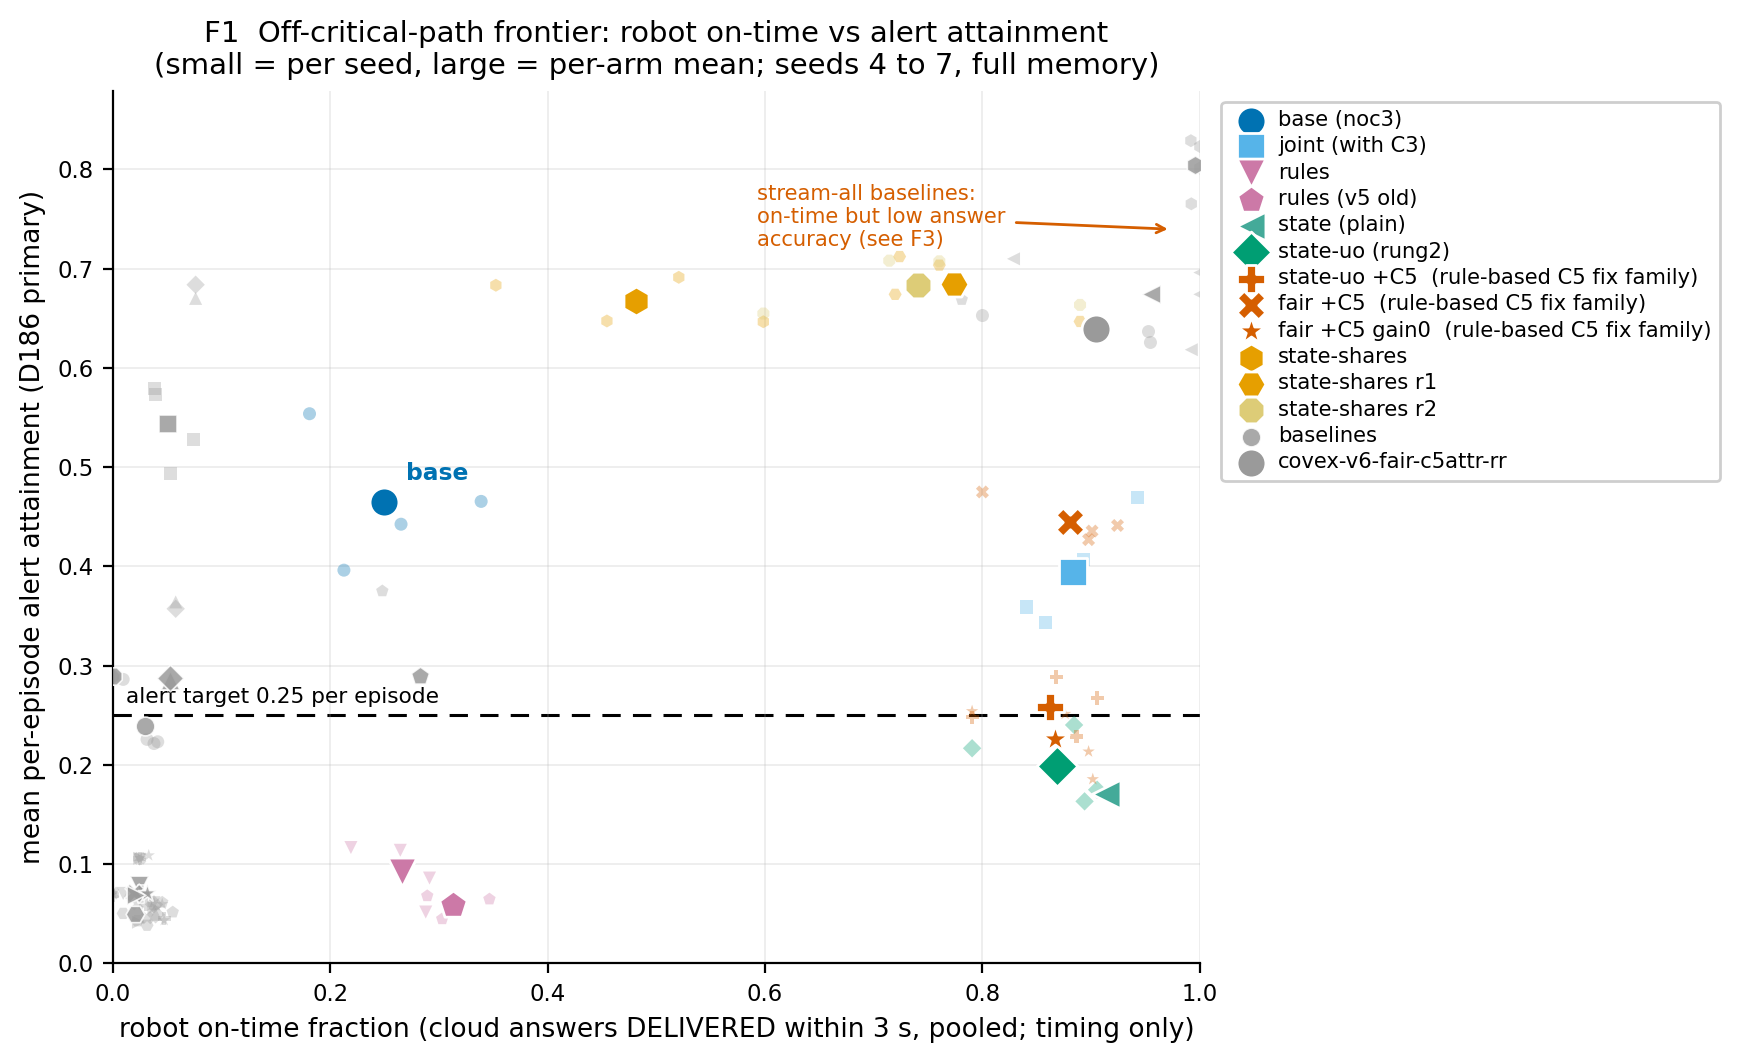
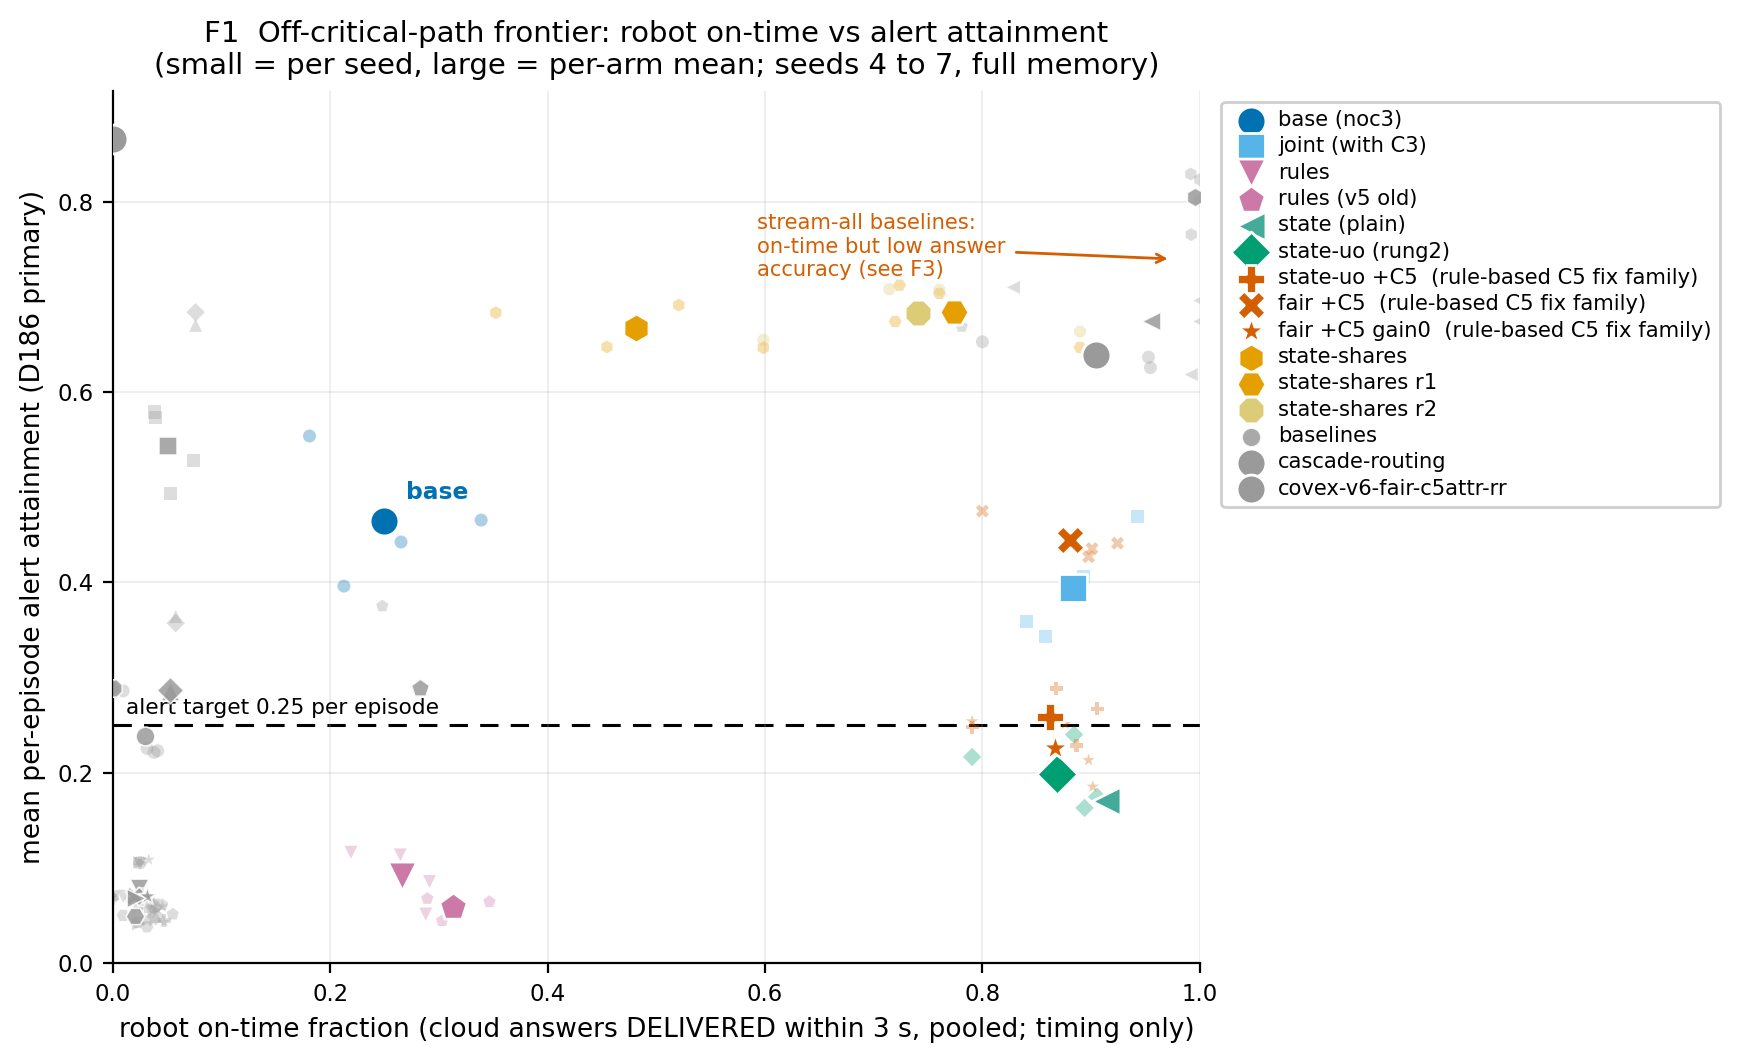
D190

diff --git a/reports/figures/frontier_data_README.md b/reports/figures/frontier_data_README.md
@@ -22,13 +22,14 @@ For every scorable cell the D179 scorer re-derives the counts from the raw logs.
 
 ## Arm families present (scorable)
 
-always-cloud-fcfs, attentionstore-prefetch, b7-edf-feasibility, base, covex-v6-fair-c5attr-rr, eco-llm, edf, fair-c5attr, fair-c5attr-gain0, joint-c3, kvflow-prefetch, llf, lmcache, mooncake, querystream-proactive, r3-streaming, rules, shares, shares-r1, shares-r2, simplestream, state, state-uo, state-uo-c5attr, streamscout, v5-rules-old, warm-all-lru
+always-cloud-fcfs, attentionstore-prefetch, b7-edf-feasibility, base, cascade-routing, covex-v6-fair-c5attr-rr, eco-llm, edf, fair-c5attr, fair-c5attr-gain0, joint-c3, kvflow-prefetch, llf, lmcache, mooncake, querystream-proactive, r3-streaming, rules, shares, shares-r1, shares-r2, simplestream, state, state-uo, state-uo-c5attr, streamscout, v5-rules-old, warm-all-lru
 
 base and rules each cover two raw arm names at different memory: base = hybrid-F-lhreq-noc3 (1x) and covex-v6-base (0.5x); rules = v5-rules-2 (1x) and covex-v6-rules (0.5x). v5-rules-old is the superseded rules arm, kept separate. joint-c3 is hybrid-F-lhreq (the joint policy with C3), kept beside the noc3 base. The rule-based C5 fix family, drawn as one family in F1, is the -c5attr arms (state-uo-c5attr, fair-c5attr, fair-c5attr-gain0).
 
 ## Missing or unparsable cells
 
 - always-cloud-fcfs_n16_s5_1200s_h27_3t_L3_epg_rq30: preflight-only stub, absent: cell.json, outcomes.jsonl.gz
+- covex-v6-base_n12_s4_1200s_h27_3t_L3_epg_rq30: name did not match the rq30 cell pattern
 - covex-v6-base_n16_s4_1200s_h27_3t_L2.5_epg_rq30: name did not match the rq30 cell pattern
 - covex-v6-base_n16_s4_1200s_h27_3t_kv0.25_L3_epg_rq30: name did not match the rq30 cell pattern
 - covex-v6-rules_n16_s4_1200s_h27_3t_L2.5_epg_rq30: name did not match the rq30 cell pattern
@@ -45,7 +46,7 @@ base and rules each cover two raw arm names at different memory: base = hybrid-F
 
 ## Provenance
 
-- runs dir last commit: b2d3d4b7
+- runs dir last commit: 9d2052ae
 - scorer score.py last commit: 9803dca0
 - d179_rung2_verdict.py last commit: 302ac817
 - build time is deliberately NOT stamped here: the output is byte-deterministic given the input, so the D190 poll commits only on a real data change. The git commit of this file is the build time of record.
